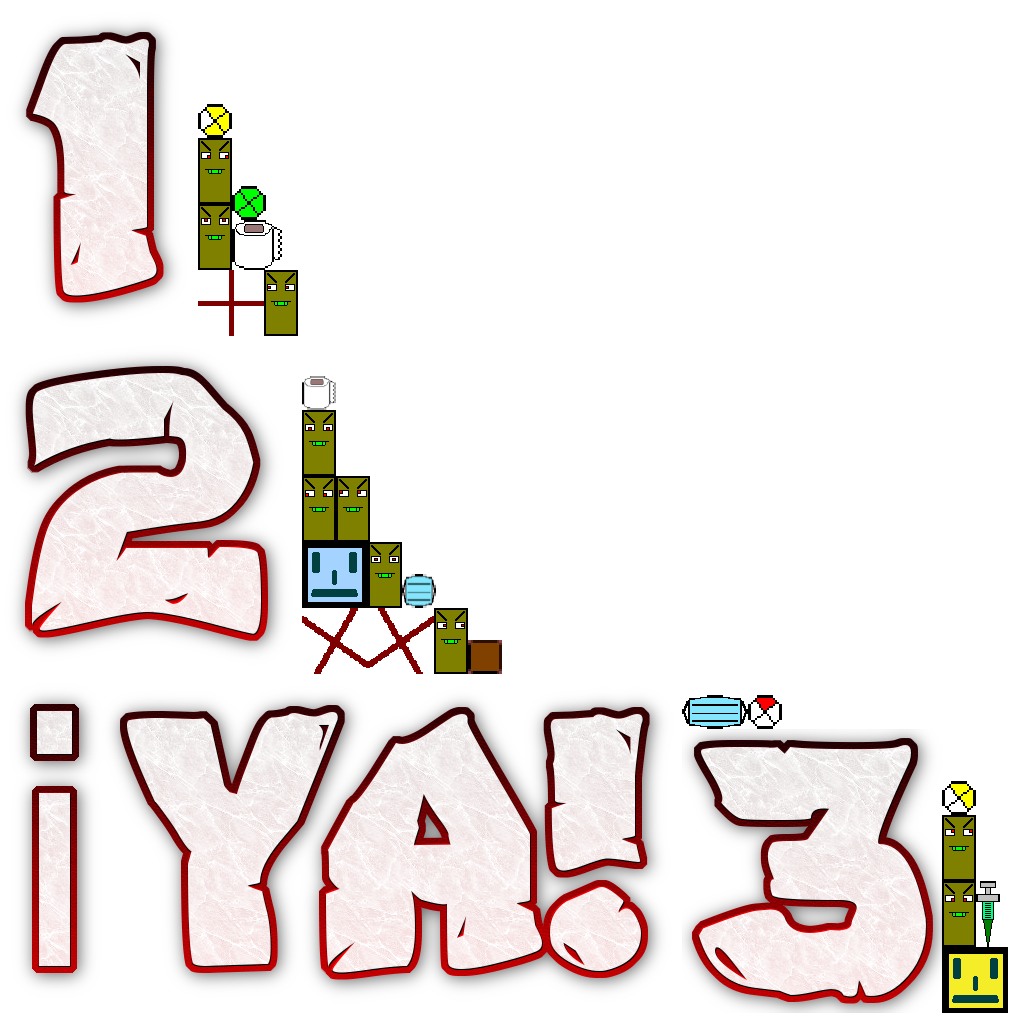
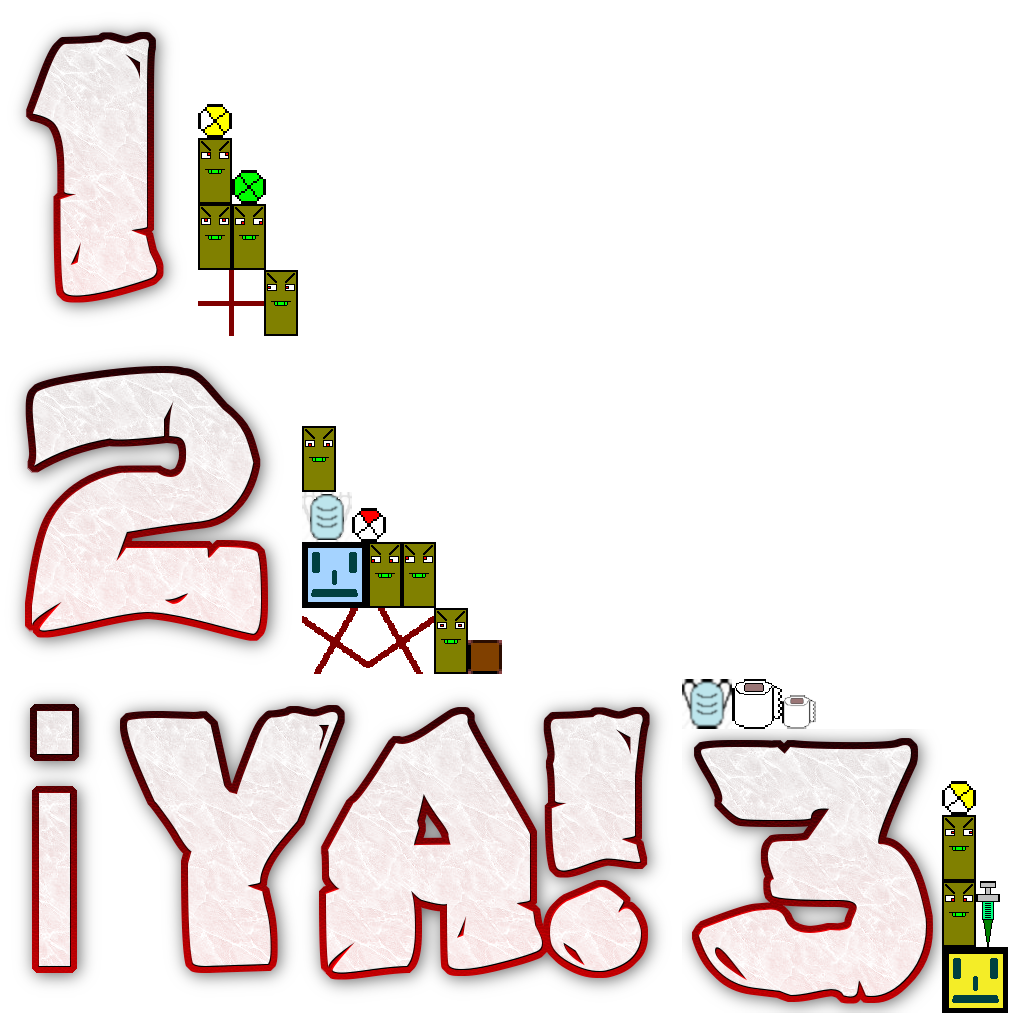
Nuevo sprite para la mascarilla, de 48x48.

diff --git a/core/src/com/colegiovivas/lapandemia/screens/WorldSubscreen.java b/core/src/com/colegiovivas/lapandemia/screens/WorldSubscreen.java
@@ -80,7 +80,7 @@ public class WorldSubscreen extends Subscreen implements ZoomGestureListener.Zoo
         ActorGeneratorFactory agf = new ActorGeneratorFactory(this, parent);
         actorGenerators = new Array<>();
         actorGenerators.add(agf.getInstance(VirusActor.class, ActorId.VIRUS, worldTop, 32, 64, 2, 100, 120f));
-        actorGenerators.add(agf.getInstance(MaskActor.class, ActorId.MASK, powerups, 64, 32, 10, 3, 15f));
+        actorGenerators.add(agf.getInstance(MaskActor.class, ActorId.MASK, powerups, 48, 48, 10, 3, 15f));
         actorGenerators.add(agf.getInstance(PaperActor.class, ActorId.PAPER, powerups, 48, 48, 5, 10, 15f));
         actorGenerators.add(agf.getInstance(NeedleActor.class, ActorId.NEEDLE, powerups, 22, 64, 60, 1, 15f));
 
